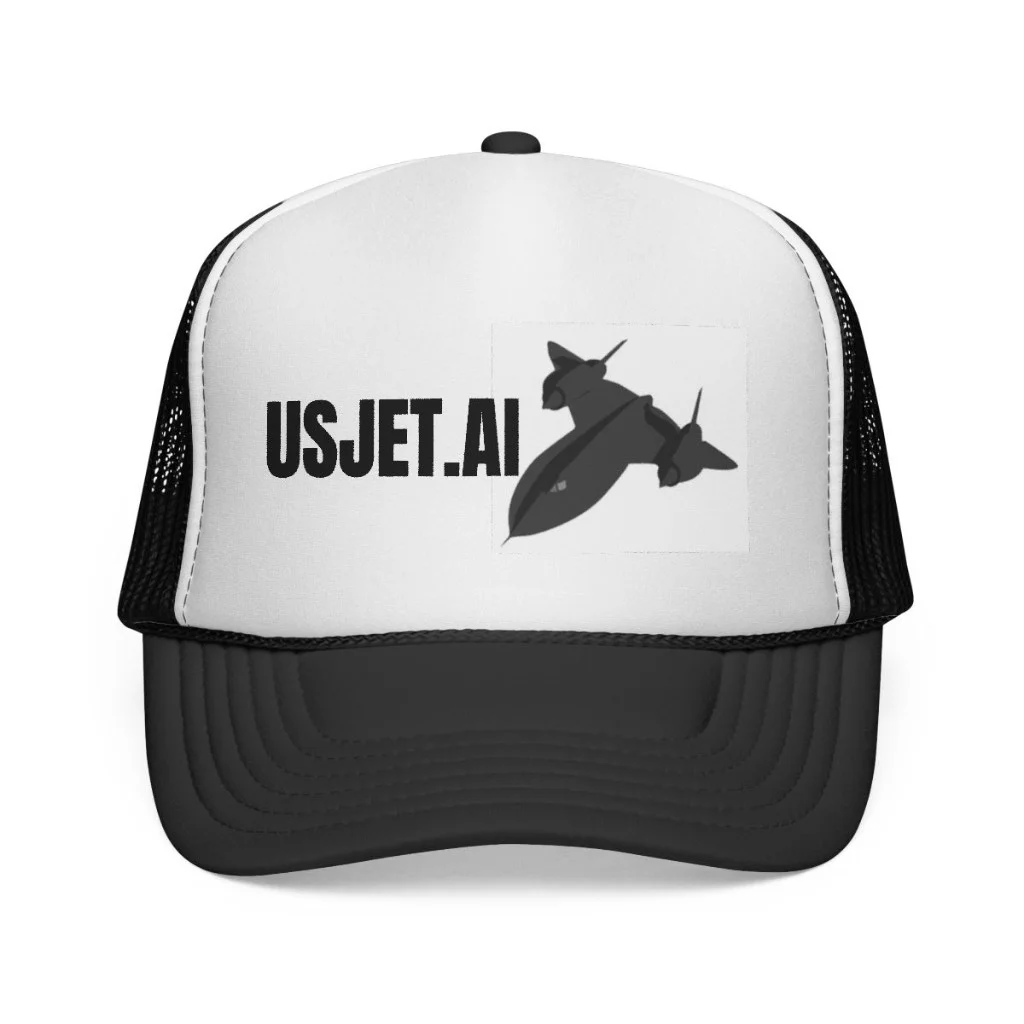
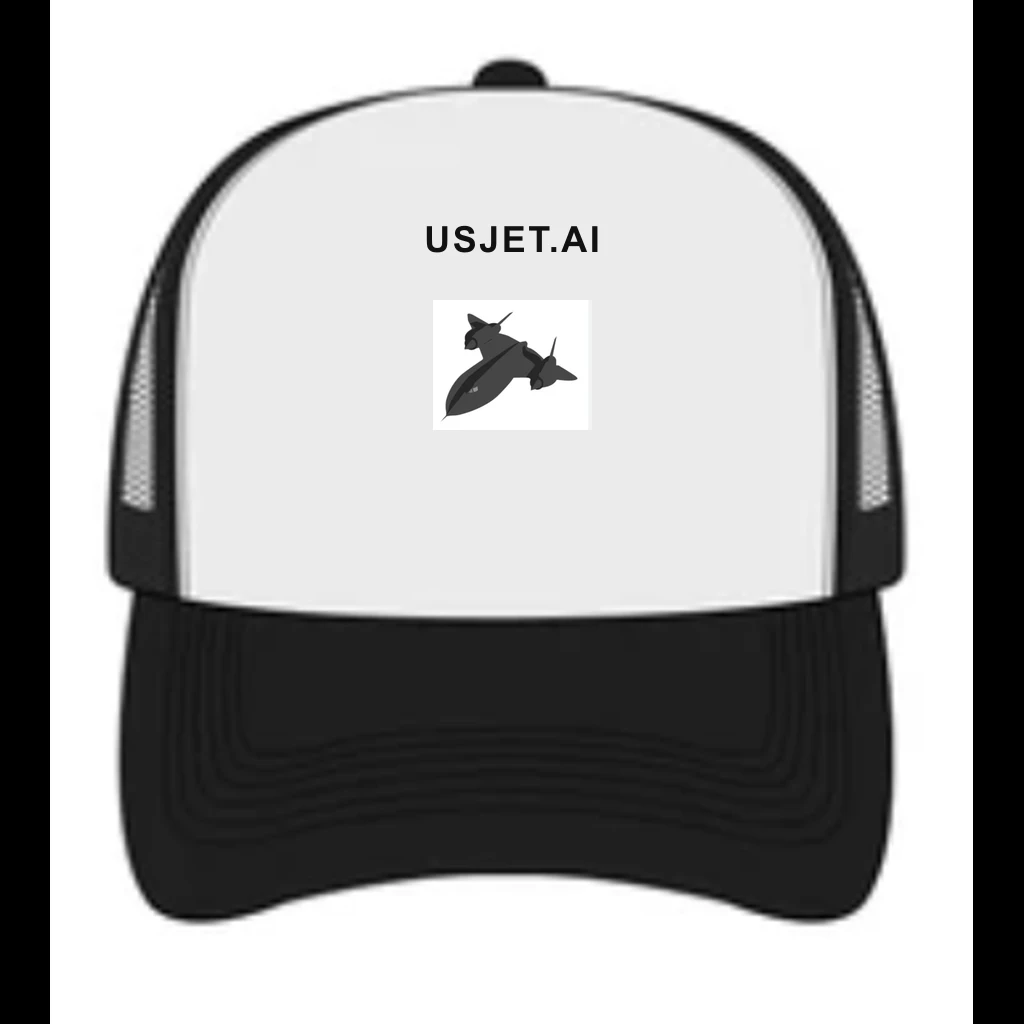
fleet trucker cap products on all product pages with generated mockups

diff --git a/src/lib/fleetProductMedia.ts b/src/lib/fleetProductMedia.ts
@@ -139,30 +139,83 @@ function buildFleetTeeLineupItem(entry: FleetTeeCatalogEntry): FleetProductLineu
   };
 }
 
-/** Extra lineup items beyond the standard fleet tee (e.g. SR-71 trucker cap). */
-const ADDITIONAL_PRODUCTS_BY_AIRCRAFT_SLUG: Record<string, FleetProductLineupItem[]> = {
-  "sr-71-blackbird": [
-    {
-      id: "sr-71-trucker-cap",
-      title: "USJET.AI SR-71 Trucker Cap",
-      kind: "Headwear",
-      description:
-        "This trucker cap brings a crisp, vintage-roadside energy to everyday wear. The foam front displays a bold, slightly distressed logo and silhouette in high-contrast tones, while the nylon mesh back keeps you cool on long drives, outdoor meetups, or weekend projects. Lightweight and structured, it shapes up clean and comfortable",
-      photo: {
-        src: "/fleet/sr-71-blackbird-cap-product.webp",
-        alt: "White and black USJET.AI trucker cap with SR-71 Blackbird silhouette on the front panel.",
-        isDedicatedProductPhoto: true,
-      },
-      price: "$25",
-    },
-  ],
+type FleetCapCatalogEntry = {
+  slug: string;
+  /** Short aircraft label for cap title (e.g. "F-35 Lightning II"). */
+  aircraftLabel: string;
+  /** Optional copy override (e.g. SR-71 vintage lede). */
+  description?: string;
+  resolveStripePaymentLink?: () => string;
 };
+
+const DEFAULT_CAP_DESCRIPTION =
+  "Structured foam front panel with black mesh back. USJET.AI crown branding and aircraft graphic on the white front. Lightweight trucker cap for the hangar and the runway.";
+
+const SR71_CAP_DESCRIPTION =
+  "This trucker cap brings a crisp, vintage-roadside energy to everyday wear. The foam front displays a bold, slightly distressed logo and silhouette in high-contrast tones, while the nylon mesh back keeps you cool on long drives, outdoor meetups, or weekend projects. Lightweight and structured, it shapes up clean and comfortable";
+
+/** USJET.AI lineup trucker cap on every fleet product page — one per aircraft slug. */
+const FLEET_CAP_CATALOG: FleetCapCatalogEntry[] = [
+  { slug: "sr-71-blackbird", aircraftLabel: "SR-71", description: SR71_CAP_DESCRIPTION },
+  { slug: "f-35-lightning-ii", aircraftLabel: "F-35 Lightning II" },
+  { slug: "b-21-raider", aircraftLabel: "B-21 Raider" },
+  { slug: "j-36", aircraftLabel: "J-36" },
+  { slug: "ngad-platform", aircraftLabel: "NGAD Platform" },
+  { slug: "yf-23-black-widow-ii", aircraftLabel: "YF-23 Black Widow II" },
+  { slug: "x-47b", aircraftLabel: "X-47B" },
+  { slug: "x-37b", aircraftLabel: "X-37B" },
+  { slug: "x-51-waverider", aircraftLabel: "X-51 Waverider" },
+  { slug: "pca", aircraftLabel: "PCA" },
+  { slug: "b-2-spirit", aircraftLabel: "B-2 Spirit" },
+  { slug: "b-1-lancer", aircraftLabel: "B-1 Lancer" },
+  { slug: "a-12-avenger-ii", aircraftLabel: "A-12 Avenger II" },
+  { slug: "f-22-raptor", aircraftLabel: "F-22 Raptor" },
+  { slug: "fb-22", aircraftLabel: "FB-22" },
+  { slug: "f-15ex-eagle-ii", aircraftLabel: "F-15EX Eagle II" },
+  { slug: "f-16v-viper", aircraftLabel: "F-16V Viper" },
+  { slug: "f-a-18-block-iii", aircraftLabel: "F/A-18 Block III" },
+  { slug: "a-10-warthog", aircraftLabel: "A-10 Warthog" },
+  { slug: "f-117-nighthawk", aircraftLabel: "F-117 Nighthawk" },
+  { slug: "mq-25-stingray", aircraftLabel: "MQ-25 Stingray" },
+  { slug: "mq-28-ghost-bat", aircraftLabel: "MQ-28 Ghost Bat" },
+  { slug: "xq-58-valkyrie", aircraftLabel: "XQ-58 Valkyrie" },
+  { slug: "rq-180", aircraftLabel: "RQ-180" },
+  { slug: "rq-4-global-hawk", aircraftLabel: "RQ-4 Global Hawk" },
+  { slug: "f-14-tomcat", aircraftLabel: "F-14 Tomcat" },
+  { slug: "f-4-phantom-ii", aircraftLabel: "F-4 Phantom II" },
+  { slug: "f-104-starfighter", aircraftLabel: "F-104 Starfighter" },
+  { slug: "f-86-sabre", aircraftLabel: "F-86 Sabre" },
+  { slug: "x-59-quesst", aircraftLabel: "X-59 QueSST" },
+];
+
+const FLEET_CAP_BY_SLUG = Object.fromEntries(FLEET_CAP_CATALOG.map((entry) => [entry.slug, entry]));
+
+function buildFleetCapLineupItem(entry: FleetCapCatalogEntry): FleetProductLineupItem {
+  return {
+    id: `${entry.slug}-cap`,
+    title: `USJET.AI ${entry.aircraftLabel} Trucker Cap`,
+    kind: "Headwear",
+    description: entry.description ?? DEFAULT_CAP_DESCRIPTION,
+    photo: {
+      src: `/fleet/${entry.slug}-cap-product.webp`,
+      alt: `White and black USJET.AI trucker cap with ${entry.aircraftLabel} graphic on the front panel.`,
+      isDedicatedProductPhoto: true,
+    },
+    price: "$25",
+    resolveStripePaymentLink: entry.resolveStripePaymentLink,
+  };
+}
+
+/** Extra lineup items beyond the standard fleet tee and cap. */
+const ADDITIONAL_PRODUCTS_BY_AIRCRAFT_SLUG: Record<string, FleetProductLineupItem[]> = {};
 
 export function resolveFleetProductLineup(aircraftSlug: string): FleetProductLineupItem[] {
   const teeEntry = FLEET_TEE_BY_SLUG[aircraftSlug];
+  const capEntry = FLEET_CAP_BY_SLUG[aircraftSlug];
   const tee = teeEntry ? [buildFleetTeeLineupItem(teeEntry)] : [];
+  const cap = capEntry ? [buildFleetCapLineupItem(capEntry)] : [];
   const extras = ADDITIONAL_PRODUCTS_BY_AIRCRAFT_SLUG[aircraftSlug] ?? [];
-  return [...tee, ...extras];
+  return [...tee, ...cap, ...extras];
 }
 
 /** Aircraft slugs with live merchandise on the product runway (model kits, apparel, etc.). */
